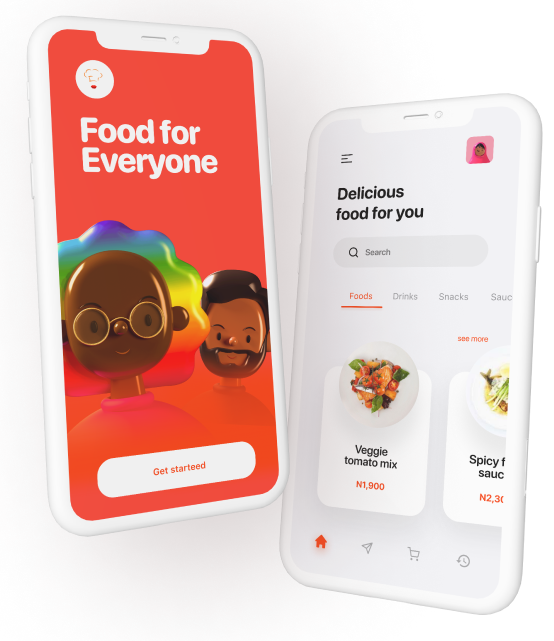
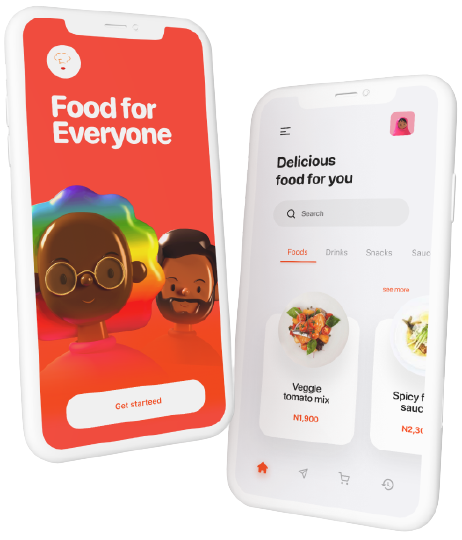
add content

diff --git a/assets/css/style.css b/assets/css/style.css
@@ -69,6 +69,10 @@
 
 /* Hero Section */
 
+.hero-container {
+  height: calc(38.5em + 31em);
+}
+
 .hero {
   display: block;
   background-image: url("../img/hero.png");
@@ -155,4 +159,262 @@
   border: 1px solid salmon;
   width: 34.25em;
   height: 40em;
+}
+
+/* Content */
+
+.line {
+  color: #e4e4e4;
+  border: 3px solid #e4e4e4;
+  width: 55.25em;
+  margin: auto;
+  margin-top: 8.05em;
+  margin-bottom: 4.5em;
+}
+
+.content-title {
+  font-family: "Poppins", sans-serif;
+  font-weight: 600;
+  font-size: 2.75em;
+  text-align: center;
+  letter-spacing: 0.1px;
+  border: 1px solid blue;
+  /* line-height: 2.25em; */
+}
+
+/* Create an account */
+
+.account-container {
+  display: flex;
+  border: 1px solid red;
+  margin-top: 3.68em;
+}
+
+.account-img {
+  flex: 1;
+  margin: 4.87em 0 3.31em 15.31em;
+  filter: drop-shadow(50px 30px 150px rgba(46, 4, 4, 0.15));
+}
+
+.account-img {
+  width: 18.87em;
+  height: 32.81em;
+}
+
+.account-text-container {
+  display: flex;
+  flex-direction: column;
+  justify-content: center;
+  flex: 1;
+  margin: 4.87em 9.62em 3.31em 0;
+  width: 300em;
+}
+
+.account-title {
+  color: #fa4a0c;
+  font-size: 1.5em;
+  font-family: "Montserrat", sans-serif;
+  font-weight: bold;
+  letter-spacing: 0.1px;
+  border: 1px solid blue;
+  margin-bottom: 0.43em;
+  /* line-height: 2.25em; */
+}
+
+.account-description1 {
+  font-size: 2.5em;
+  color: #252b42;
+  /* line-height: 3.56em; */
+  font-weight: bold;
+  font-family: "Montserrat", sans-serif;
+  letter-spacing: 0.2px;
+  border: 1px solid yellow;
+  padding: 0.62em 0;
+}
+
+.account-description2 {
+  font-size: 1.5em;
+  color: #737373;
+  font-family: "Montserrat", sans-serif;
+  font-weight: 500;
+  letter-spacing: 0.2px;
+  border: 1px solid red;
+  margin-top: 0.43em;
+}
+
+/* Explore varieties */
+.explore-container {
+  display: flex;
+  border: 1px solid black;
+}
+
+.explore-text-container {
+  display: flex;
+  justify-content: center;
+  flex-direction: column;
+  flex: 1;
+  margin-top: 4.87em;
+  margin-bottom: 12.74em;
+  margin-left: 15.87em;
+  border: 1px solid red;
+}
+
+.explore-title {
+  color: #fa4a0c;
+  font-size: 1.5em;
+  font-family: "Montserrat", sans-serif;
+  font-weight: bold;
+  letter-spacing: 0.1px;
+  margin-bottom: 0.43em;
+}
+
+.explore-description1 {
+  font-size: 2.5em;
+  color: #252b42;
+  /* line-height: 3.56em; */
+  font-weight: bold;
+  font-family: "Montserrat", sans-serif;
+  letter-spacing: 0.2px;
+  padding: 0.62em 0;
+}
+
+.explore-description2 {
+  font-size: 1.5em;
+  color: #737373;
+  font-family: "Montserrat", sans-serif;
+  font-weight: 500;
+  letter-spacing: 0.2px;
+  margin-top: 0.43em;
+}
+
+.explore-img {
+  display: flex;
+  justify-content: flex-end;
+  flex: 1;
+  margin-top: 4.87em;
+  margin-right: 14.5em;
+  margin-bottom: 12.74em;
+  filter: drop-shadow(50px 30px 150px rgba(46, 4, 4, 0.15));
+}
+
+/* Checkout */
+.checkout-container {
+  display: flex;
+  border: 1px solid green;
+}
+
+.checkout-img {
+  flex: 1;
+  margin-left: 15.31em;
+  margin-top: 4.87em;
+  filter: drop-shadow(50px 30px 150px rgba(46, 4, 4, 0.15));
+  background-color: yellowgreen;
+  margin-bottom: 13.43em;
+}
+
+.checkout-text-container {
+  display: flex;
+  justify-content: center;
+  flex-direction: column;
+  flex: 1;
+  background-color: turquoise;
+  margin-top: 4.87em;
+  margin-right: 9.62em;
+  margin-bottom: 13.43em;
+}
+
+.checkout-title {
+  color: #fa4a0c;
+  font-size: 1.5em;
+  font-family: "Montserrat", sans-serif;
+  font-weight: bold;
+  letter-spacing: 0.1px;
+  margin-bottom: 0.43em;
+}
+
+.checkout-description1 {
+  font-size: 2.5em;
+  color: #252b42;
+  /* line-height: 3.56em; */
+  font-weight: bold;
+  font-family: "Montserrat", sans-serif;
+  letter-spacing: 0.2px;
+  padding: 0.62em 0;
+}
+
+.checkout-description2 {
+  font-size: 1.5em;
+  color: #737373;
+  font-family: "Montserrat", sans-serif;
+  font-weight: 500;
+  letter-spacing: 0.2px;
+  margin-top: 0.43em;
+}
+
+/* Download */
+.download-container {
+  display: flex;
+  flex-direction: column;
+  background-image: url("../img/download.png");
+  background-size: cover;
+  width: 100%;
+  height: 32.25em;
+}
+
+.download-text-container {
+  display: flex;
+  flex-direction: column;
+  margin: auto;
+  background-color: purple;
+}
+
+.download-title {
+  font-family: "Montserrat", sans-serif;
+  font-weight: bold;
+  color: #fff;
+  font-size: 2.5em;
+  text-align: center;
+}
+
+.download-description {
+  font-family: "Montserrat", sans-serif;
+  font-size: 1.5em;
+  color: #fff;
+  text-align: center;
+  border: 1px solid yellow;
+  margin-top: 0.62em;
+  margin-bottom: 3.75em;
+  letter-spacing: 0.2px;
+  background-color: blue;
+}
+
+.download-store {
+  display: flex;
+  justify-content: center;
+  background-color: yellow;
+}
+
+.download-playstore {
+  background-color: #fa4a0c;
+  outline: none;
+  border: none;
+  font-size: 1.5rem;
+  color: #fff;
+  border-radius: 10px;
+  padding: 1rem 2.65rem;
+  font-family: "Montserrat", sans-serif;
+  font-weight: bold;
+  margin-right: 1rem;
+  cursor: pointer;
+}
+
+.download-appstore {
+  background-color: transparent;
+  font-size: 1.5rem;
+  color: #fff;
+  border-radius: 10px;
+  padding: 1rem 2.65rem;
+  font-family: "Montserrat", sans-serif;
+  font-weight: bold;
+  cursor: pointer;
 }

diff --git a/index.html b/index.html
@@ -11,7 +11,7 @@
     <!-- Navbar -->
     <nav class="nav">
       <div class="nav-logo">
-        <img class="logo" src="assets/img/logo.png" alt="logo" />
+        <a href="#"><img class="logo" src="assets/img/logo.png" alt="logo" /></a>
       </div>
       <div class="nav-menu">
         <ul class="nav-list">
@@ -32,22 +32,87 @@
     </nav>
 
     <!-- Hero Section  -->
-    <div class="hero">
-      <div class="hero-text-container">
-        <h1 class="hero-title">Food app</h1>
-        <h1 class="hero-description">
-          <p>Why stay hungry when</p>
-          <p>you can order form Bella Onojie</p>
-        </h1>
-        <p class="hero-download">Download the bella onoje’s food app now on</p>
-      </div>
-      <div class="hero-store">
-        <button class="hero-playstore">Playstore</button>
-        <button class="hero-appstore">App Store</button>
-      </div>
-      <div class="hero-mobile-img">
-        <img src="assets/img/mobile2.png" alt="download" />
+    <div class="hero-container">
+      <div class="hero">
+        <div class="hero-text-container">
+          <h1 class="hero-title">Food app</h1>
+          <h1 class="hero-description">
+            <p>Why stay hungry when</p>
+            <p>you can order form Bella Onojie</p>
+          </h1>
+          <p class="hero-download">Download the bella onoje’s food app now on</p>
+        </div>
+        <div class="hero-store">
+          <button class="hero-playstore">Playstore</button>
+          <button class="hero-appstore">App Store</button>
+        </div>
+        <div class="hero-mobile-img">
+          <img src="assets/img/mobile1.png" alt="download" />
+        </div>
       </div>
     </div>
+    <!-- Content -->
+    <div class="content">
+      <hr class="line" />
+      <h1 class="content-title">How the app works</h1>
+
+      <!-- Create an account -->
+      <div class="account-container">
+        <div class="account-img">
+          <img src="assets/img/mobile2.png" alt="account" />
+        </div>
+        <div class="account-text-container">
+          <h2 class="account-title">Create an account</h2>
+          <h1 class="account-description1">Create/login to an existing account to get started</h1>
+          <p class="account-description2">An account is created with your email and a desired password</p>
+        </div>
+      </div>
+
+      <!-- Explore varieties -->
+      <div class="explore-container">
+        <div class="explore-text-container">
+          <h2 class="explore-title">Explore varieties</h2>
+          <h1 class="explore-description1">Shop for your favorites meal as e dey hot.</h1>
+          <p class="explore-description2">Shop for your favorite meals or drinks and enjoy while doing it.</p>
+        </div>
+        <div class="explore-img">
+          <img src="assets/img/mobile3.png" alt="explore" />
+        </div>
+      </div>
+
+      <!-- Checkout -->
+      <div class="checkout-container">
+        <div class="checkout-img">
+          <img src="assets/img/mobile4.png" alt="checkout" />
+        </div>
+        <div class="checkout-text-container">
+          <h2 class="checkout-title">Checkout</h2>
+          <h1 class="checkout-description1">When you done check out and get it delivered.</h1>
+          <p class="checkout-description2">When you done check out and get it delivered with ease.</p>
+        </div>
+      </div>
+
+      <!-- Download -->
+      <div class="download-container">
+        <div class="download-text-container">
+          <h1 class="download-title">Download the app now.</h1>
+          <p class="download-description">Available on your favorite store. Start your premium experience now</p>
+          <div class="download-store">
+            <button class="download-playstore">Playstore</button>
+            <button class="download-appstore">App Store</button>
+          </div>
+        </div>
+      </div>
+    </div>
+
+    <!-- Footer -->
+    <!-- <div class="footer">
+      <div class="footer-logo">
+        <a href="#"><img src="assets/img/logo.png" alt="footer logo" /></a>
+      </div>
+      <div class="footer-icon">
+        <img src="assets/img/icons/twitter.svg" alt="twitter">
+      </div>
+    </div> -->
   </body>
 </html>
